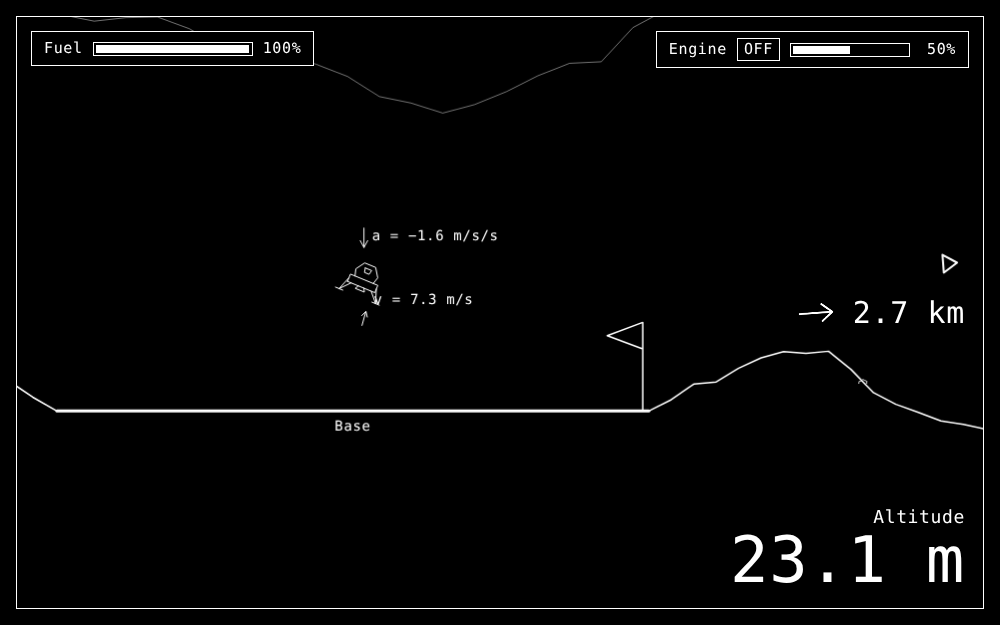
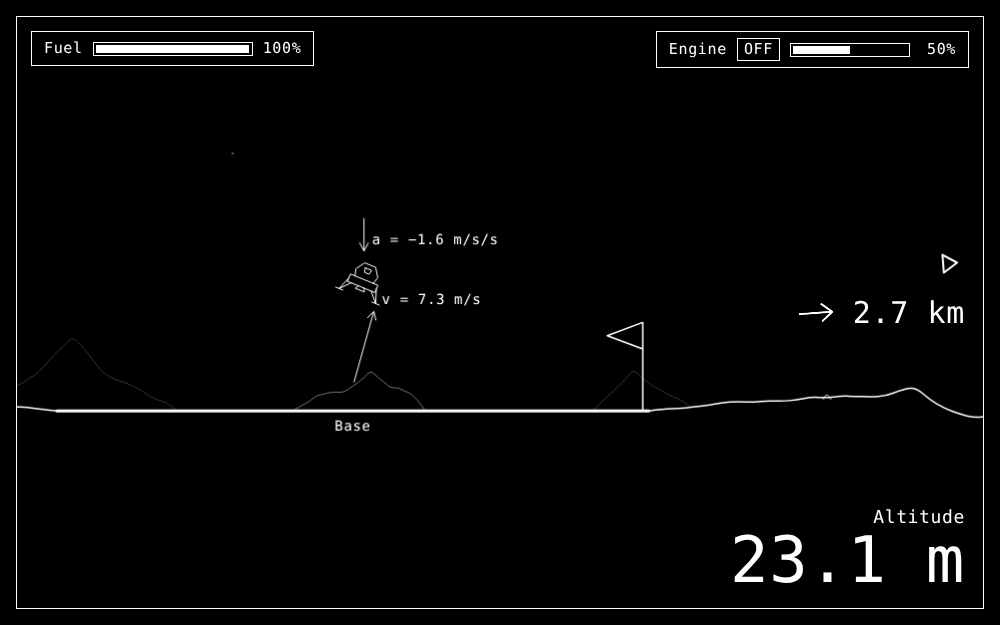
Replace Lunar Lander with version 2 and refresh preview
Claude-Session: https://claude.ai/code/session_01DLaRqkJGgdq1yeBUSbZA1V

diff --git a/lunar-lander/index.html b/lunar-lander/index.html
@@ -192,10 +192,10 @@ button.primary { border-width: 2.5px; }
   const LAND_ALT = 20, LAND_OUT_ALT = 25, LAND_H = 60;   // landing view: one cut to a 60 m tall view when descending below 20 m
   const SHELTER_ZOOM = 150;       // close view also starts within 150 m (straight line) of the next shelter
   const LEG = 4;                  // half the distance between the feet, m
-  // arrow lengths scale with the zoom: these are the lengths in the 120 m close view (px per m/s, px per m/s/s);
-  // a view showing twice as much ground draws the arrows half as long
-  const V_REF = 2, A_REF = 12;
-  const arrowZoom = () => (pxH / view.scale > 0 ? 120 / (pxH / view.scale) : 1);
+  // arrow lengths grow as the view zooms in: these are the lengths in the far view (px per m/s, px per m/s/s);
+  // the close view (5x closer) draws them 5x longer, the landing view 10x
+  const V_REF = 2, A_REF = 4;
+  const arrowZoom = () => FAR_H / (pxH / view.scale);
 
   // ---------- pickups ----------
   const DEBRIS = 30;              // m: landing closer than this to a shelter hurts people inside
@@ -317,11 +317,10 @@ button.primary { border-width: 2.5px; }
     for (let i = 0; i < ctrl.length - 1; i++) fractal(ctrl[i], ctrl[i + 1], 0.09, 8, out);
     return out;
   }
+  // two layers: far (moves at 25% of the foreground's speed across the screen) and near (50%)
   const BG_DEPTHS = [
-    { p: 0.15, alpha: 0.30, w: 0.6,  hMin: 260, hMax: 480, gap: [700, 1300] },
-    { p: 0.27, alpha: 0.40, w: 0.65, hMin: 180, hMax: 380, gap: [600, 1100] },
-    { p: 0.40, alpha: 0.50, w: 0.7,  hMin: 110, hMax: 260, gap: [500, 950] },
-    { p: 0.55, alpha: 0.62, w: 0.75, hMin: 50,  hMax: 160, gap: [400, 800] }
+    { p: 0.25, alpha: 0.35, w: 0.6,  hMin: 50, hMax: 130, gap: [450, 900] },
+    { p: 0.5,  alpha: 0.6,  w: 0.75, hMin: 25, hMax: 75,  gap: [300, 650] }
   ];
   for (const D of BG_DEPTHS) {
     D.m = [];
@@ -761,13 +760,15 @@ button.primary { border-width: 2.5px; }
       for (let i = 1; i < pts.length - 1; i++) { const [x, y] = pts[i], [nx, ny] = pts[i + 1]; ctx.quadraticCurveTo(x, y, (x + nx) / 2, (y + ny) / 2); }
       const L = pts[pts.length - 1]; ctx.lineTo(L[0], L[1]);
     };
+    // Distant mountains are drawn at the far view's scale in every view (zooming in on the ship does not
+    // magnify them) and sit on a fixed horizon line 28% up the screen, so they never rise or sink.
+    // Sideways they slide at 25% / 50% of the ship's ground speed (in far-view pixels).
+    const kf = pxH / FAR_H, camC = view.x + pxW / view.scale / 2, horizon = pxH * 0.72;
     for (const D of BG_DEPTHS) {
-      const shift = (1 - D.p) * view.x;              // mountain x lines up with world x = x + shift
       for (const M of D.m) {
-        const cx = M.x + shift;
-        if (SX(cx + M.w / 2) < -20 || SX(cx - M.w / 2) > pxW + 20) continue;
-        const base = smoothAt(cx) - 20;                // foot sits a little below the general ground level
-        const pts = M.shape.map(([dx, h]) => [SX(cx + dx), SY(base + h)]);
+        const sx = (M.x - D.p * camC) * kf + pxW / 2;
+        if (sx + M.w / 2 * kf < -20 || sx - M.w / 2 * kf > pxW + 20) continue;
+        const pts = M.shape.map(([dx, h]) => [sx + dx * kf, horizon - h * kf]);
         ctx.beginPath(); curve(pts); ctx.lineTo(pts[pts.length - 1][0], pxH + 10); ctx.lineTo(pts[0][0], pxH + 10); ctx.closePath();
         ctx.fillStyle = '#000000'; ctx.fill();
         ctx.save(); ctx.globalAlpha = D.alpha; ctx.strokeStyle = '#FFFFFF'; ctx.lineWidth = D.w; ctx.lineJoin = 'round';
